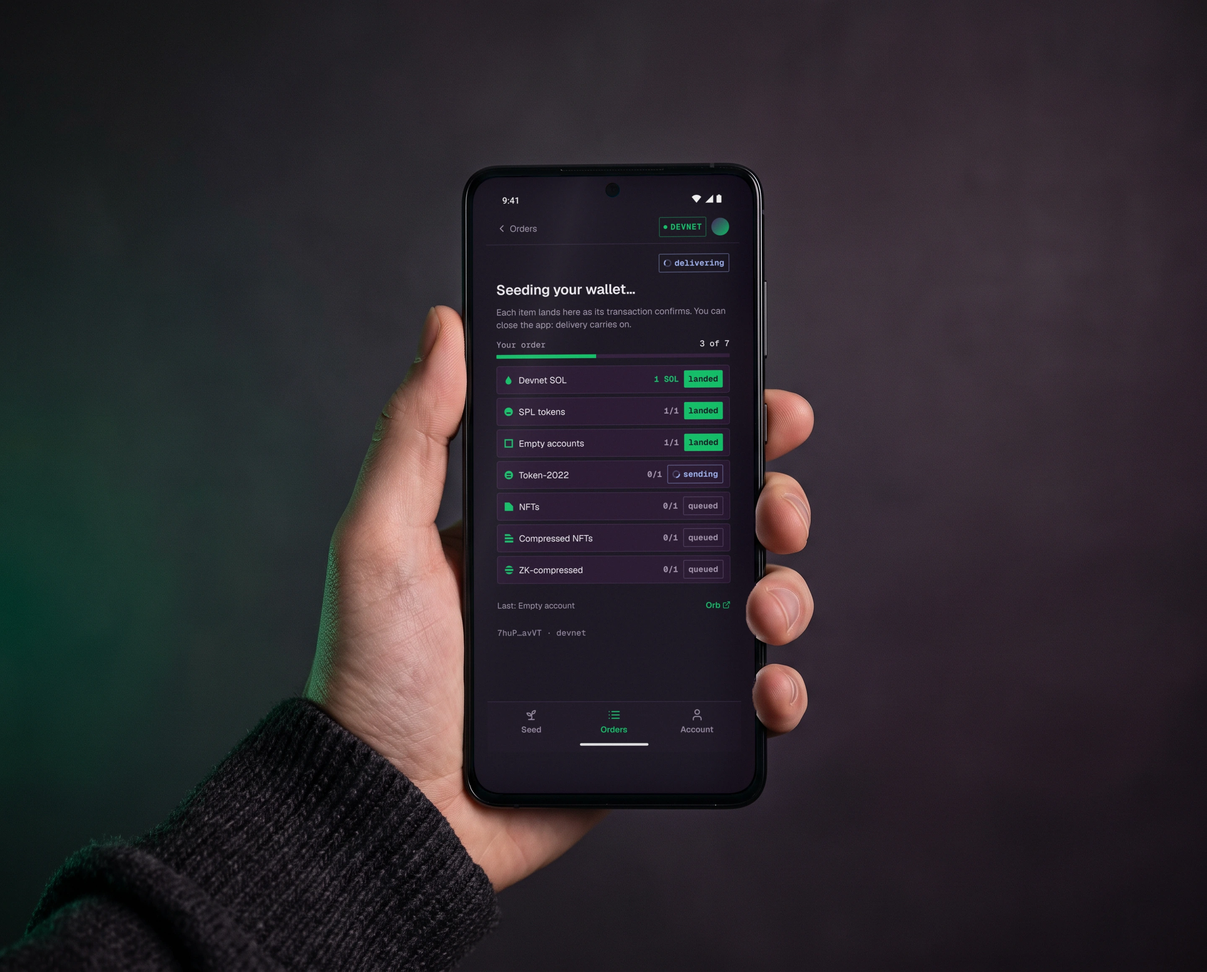
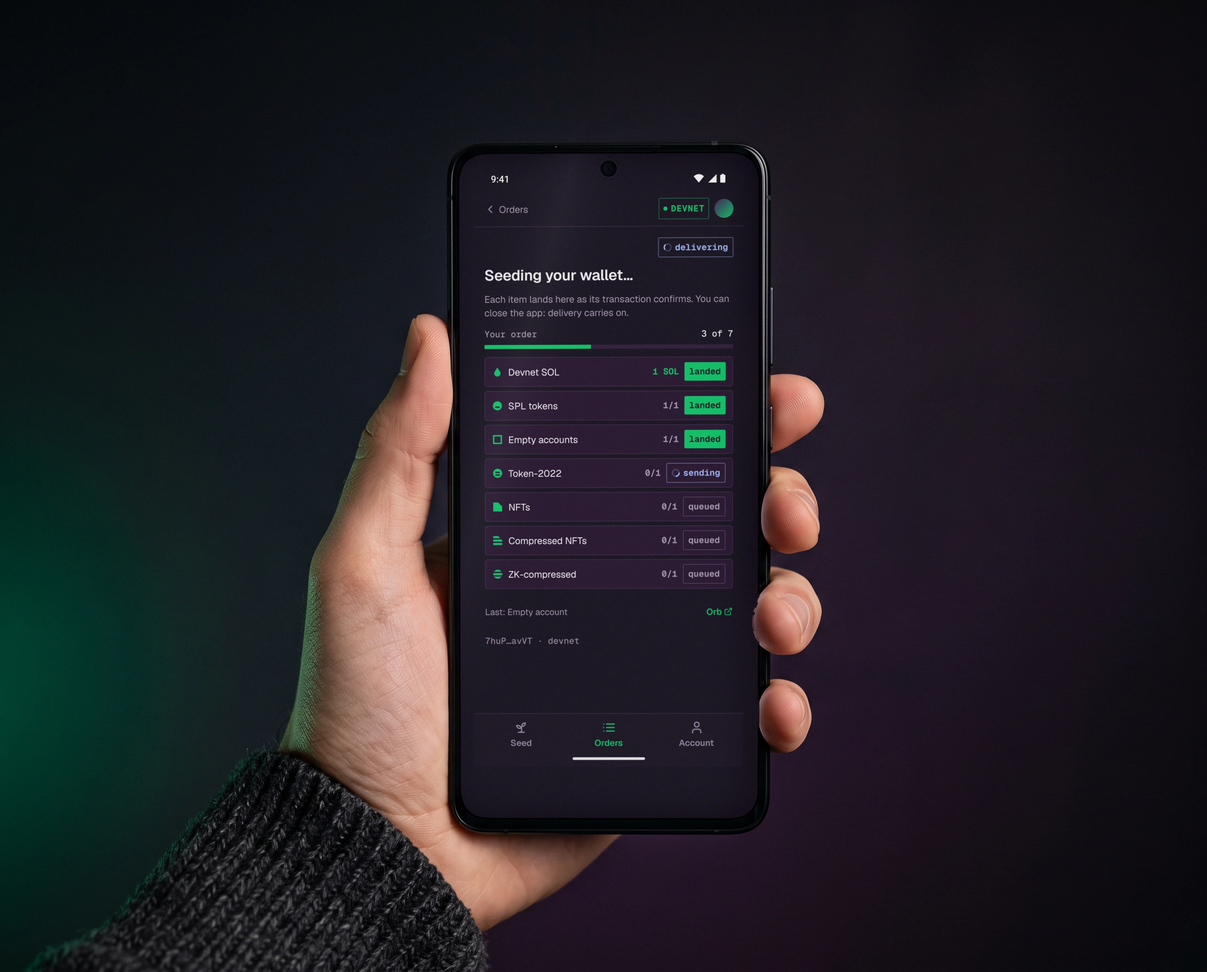
Seed My Wallet: fourth round (split 02, 03 and 06 panels)
Rounds and construction each split into two panels (02a/02b, 03a/03b,
with English 02a and 03a), the store set as two panels (06a/06b, option A),
04a with more air, and new phone scenes for the app and the X feed.
Drops the unused 02, 03 and 06 panels; manifest regenerated.

diff --git a/src/projects.tsx b/src/projects.tsx
@@ -604,9 +604,11 @@ const seedMyWalletProject: Project = {
     "The rest was about building it right. One module sets the stem's width, the cursor's height and the gap between them, and the tip has a vertical cut, like the edge of a character cell in a terminal. The name, the SMW Faucet drop, the favicon and a glyph for every kind of test data all came from that same measure. For the launch I put together the campaign pieces and the store listing with all of it, always showing the real app, with an order landing item by item.",
   ],
   images: [
-    "/img/projects/seed-my-wallet/seed-my-wallet-x-MY-02.webp",
+    "/img/projects/seed-my-wallet/seed-my-wallet-x-MY-02a.webp",
+    "/img/projects/seed-my-wallet/seed-my-wallet-x-MY-02b.webp",
     "/img/projects/seed-my-wallet/seed-my-wallet-laptop-mockup.webp",
-    "/img/projects/seed-my-wallet/seed-my-wallet-x-MY-03.webp",
+    "/img/projects/seed-my-wallet/seed-my-wallet-x-MY-03a.webp",
+    "/img/projects/seed-my-wallet/seed-my-wallet-x-MY-03b.webp",
     "/img/projects/seed-my-wallet/seed-my-wallet-celular-mockup.webp",
     "/img/projects/seed-my-wallet/seed-my-wallet-x-MY-04a.webp",
     "/img/projects/seed-my-wallet/seed-my-wallet-laptop-x-perfil-mockup.webp",
@@ -614,13 +616,16 @@ const seedMyWalletProject: Project = {
     "/img/projects/seed-my-wallet/seed-my-wallet-celular-chat-mockup.webp",
     "/img/projects/seed-my-wallet/seed-my-wallet-x-MY-05.webp",
     "/img/projects/seed-my-wallet/seed-my-wallet-video-lanzamiento.mp4",
-    "/img/projects/seed-my-wallet/seed-my-wallet-x-MY-06.webp",
+    "/img/projects/seed-my-wallet/seed-my-wallet-x-MY-06a.webp",
     "/img/projects/seed-my-wallet/seed-my-wallet-celular-x-feed-mockup.webp",
+    "/img/projects/seed-my-wallet/seed-my-wallet-x-MY-06b.webp",
   ],
   imagesEn: [
-    "/img/projects/seed-my-wallet/seed-my-wallet-x-MY-02-en.webp",
+    "/img/projects/seed-my-wallet/seed-my-wallet-x-MY-02a-en.webp",
+    "/img/projects/seed-my-wallet/seed-my-wallet-x-MY-02b.webp",
     "/img/projects/seed-my-wallet/seed-my-wallet-laptop-mockup.webp",
-    "/img/projects/seed-my-wallet/seed-my-wallet-x-MY-03-en.webp",
+    "/img/projects/seed-my-wallet/seed-my-wallet-x-MY-03a-en.webp",
+    "/img/projects/seed-my-wallet/seed-my-wallet-x-MY-03b.webp",
     "/img/projects/seed-my-wallet/seed-my-wallet-celular-mockup.webp",
     "/img/projects/seed-my-wallet/seed-my-wallet-x-MY-04a.webp",
     "/img/projects/seed-my-wallet/seed-my-wallet-laptop-x-perfil-mockup.webp",
@@ -628,8 +633,9 @@ const seedMyWalletProject: Project = {
     "/img/projects/seed-my-wallet/seed-my-wallet-celular-chat-mockup.webp",
     "/img/projects/seed-my-wallet/seed-my-wallet-x-MY-05-en.webp",
     "/img/projects/seed-my-wallet/seed-my-wallet-video-lanzamiento.mp4",
-    "/img/projects/seed-my-wallet/seed-my-wallet-x-MY-06.webp",
+    "/img/projects/seed-my-wallet/seed-my-wallet-x-MY-06a.webp",
     "/img/projects/seed-my-wallet/seed-my-wallet-celular-x-feed-mockup.webp",
+    "/img/projects/seed-my-wallet/seed-my-wallet-x-MY-06b.webp",
   ],
 };
 
